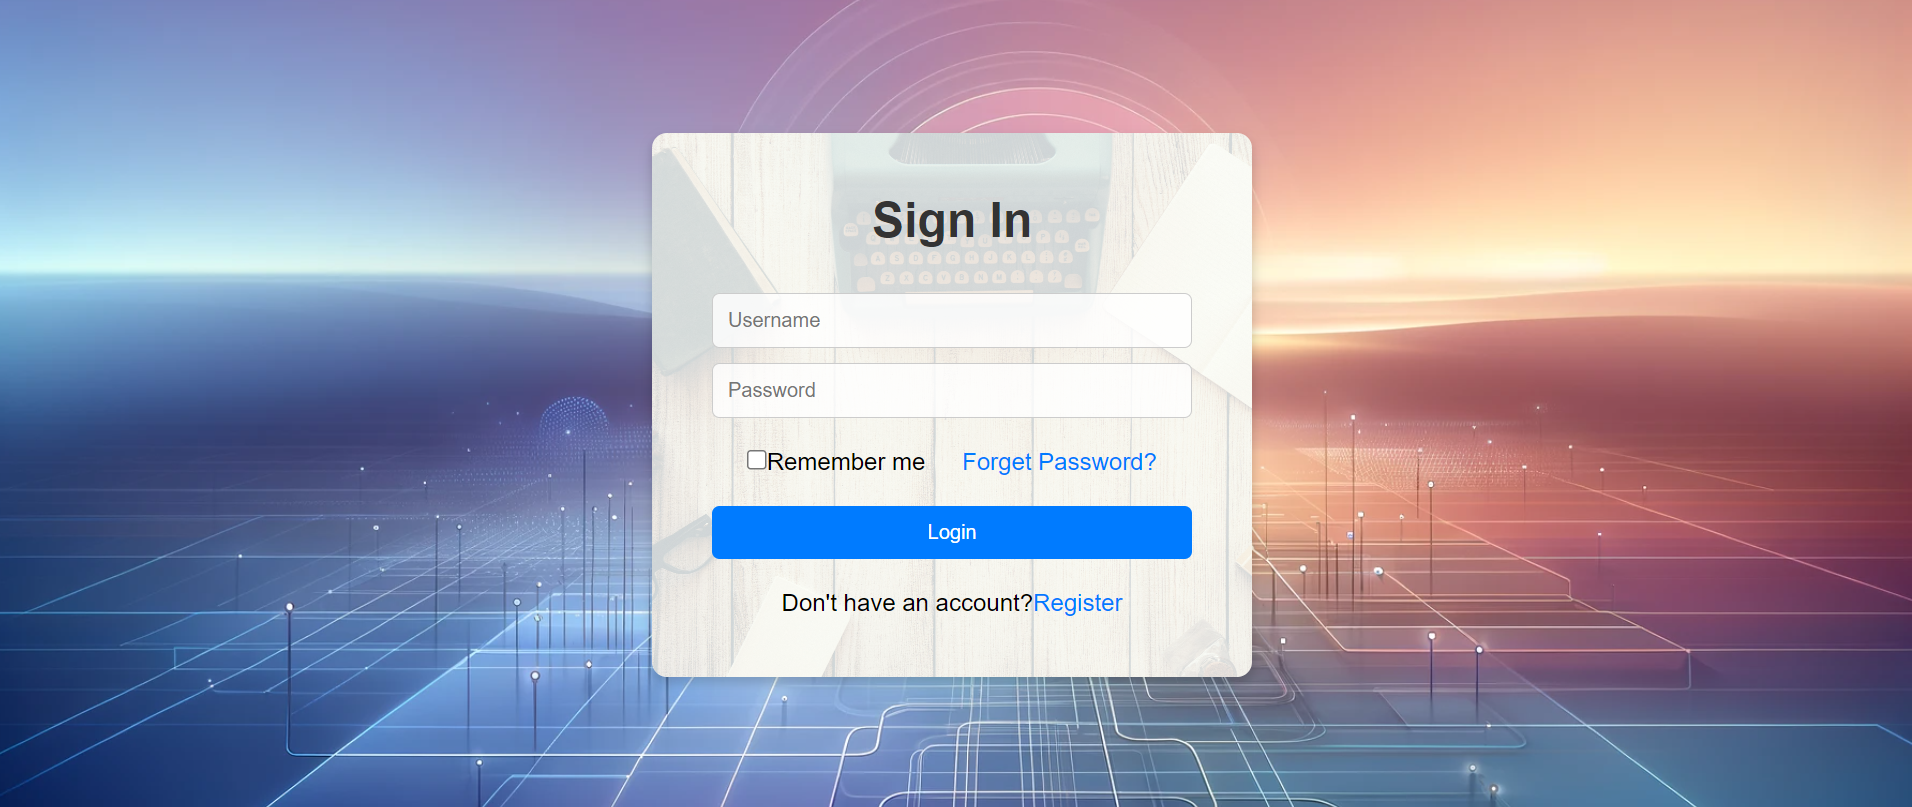
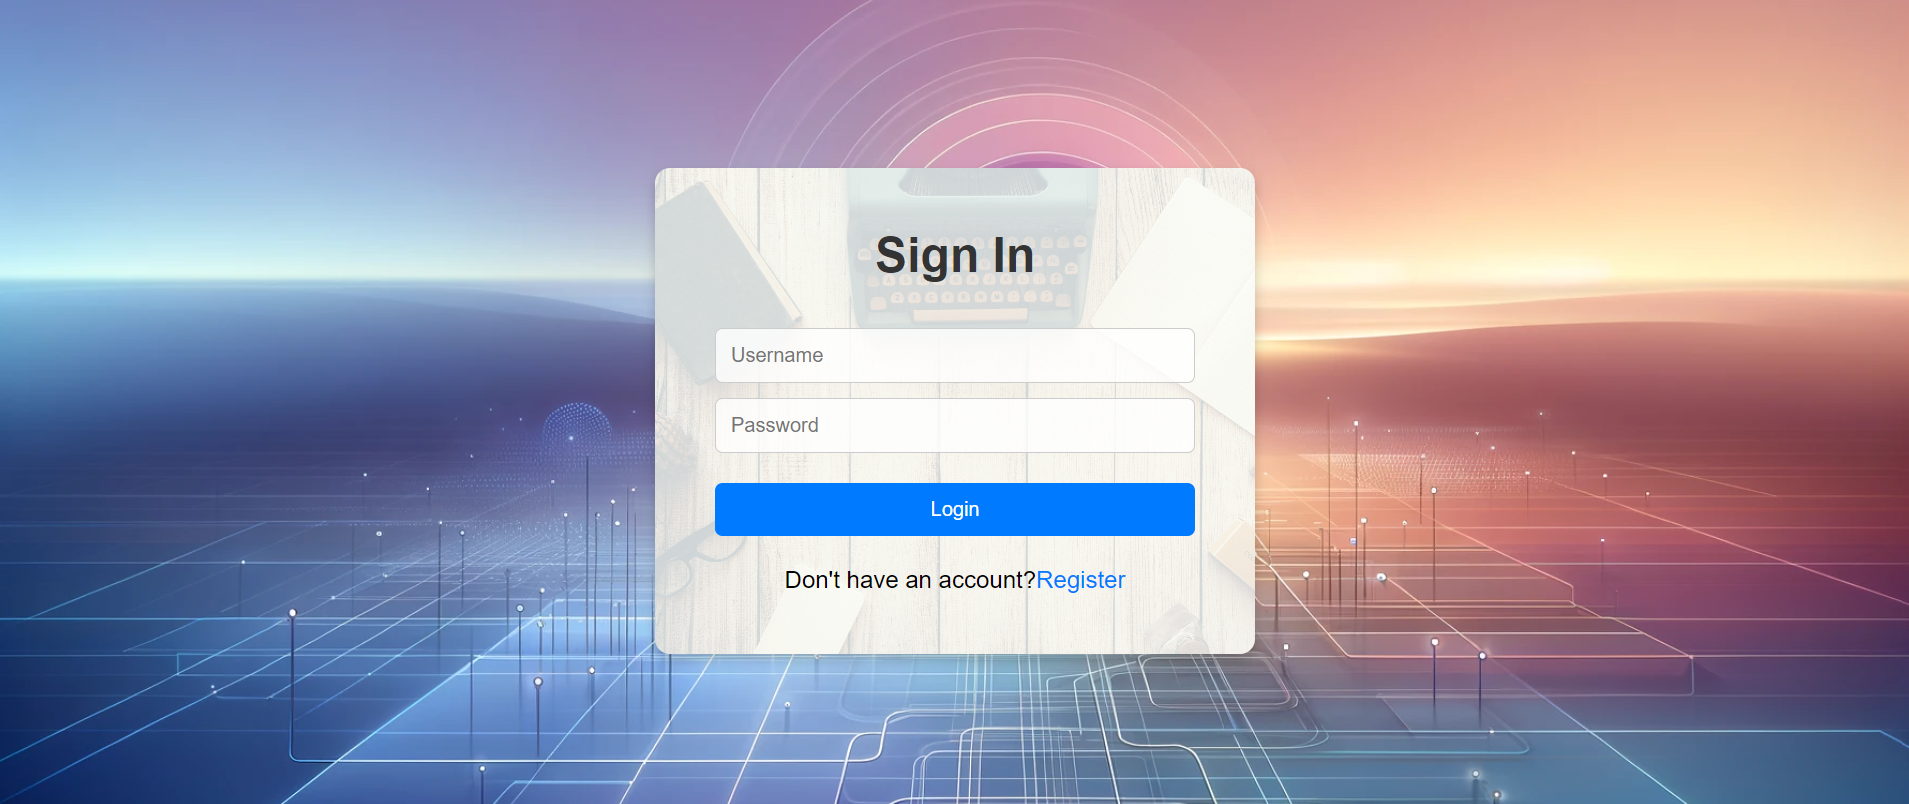
enter

diff --git a/TaskNo2/style.css b/TaskNo2/style.css
@@ -1,75 +1,76 @@
 * {
-  margin: 0;
-  padding: 0;
-  box-sizing: border-box;
-  font-family: "Poppins", sans-serif;
-}
-
-body, html {
-  height: 100%;
-  width: 100%;
-  display: flex;
-  justify-content: center;
-  align-items: center;
-  background-image: url('login.jpg'); 
-  background-size: cover;
-  background-position: center;
-}
-
-.form-container {
-  background-color: rgba(255, 255, 255, 0.8);
-  background-image: url('form.jpg'); 
-  background-size: cover; 
-  background-position: center;
-  background-blend-mode: overlay; 
-  padding: 40px;
-  border-radius: 10px;
-  box-shadow: 0 4px 8px rgba(0, 0, 0, 0.2);
-  width: 100%;
-  max-width: 400px;
-  position: relative; 
-  z-index: 2; 
-}
-.form-container h1 {
-  text-align: center;
-  margin-bottom: 20px; 
-  color: #333; 
-}
-
-.input-box input {
-  width: 100%;
-  padding: 10px;
-  margin-top: 10px;
-  border: 1px solid #ccc;
-  border-radius: 5px;
-  background-color: rgba(255, 255, 255, 0.8); 
-}
-
-.btn {
-  width: 100%;
-  padding: 10px;
-  border: none;
-  background-color: #007bff;
-  color: white;
-  margin-top: 20px;
-  border-radius: 5px;
-  cursor: pointer;
-}
-
-.btn:hover {
-  background-color: #0056b3;
-}
-
-.register-link p, .remember-forget {
-  text-align: center;
-  margin-top: 20px;
-}
-
-a {
-  text-decoration: none;
-  color: #007bff;
-}
-
-a:hover {
-  text-decoration: underline;
-}
+    margin: 0;
+    padding: 0;
+    box-sizing: border-box;
+    font-family: "Poppins", sans-serif;
+  }
+  
+  body, html {
+    height: 100%;
+    width: 100%;
+    display: flex;
+    justify-content: center;
+    align-items: center;
+    background-image: url('login.jpg'); 
+    background-size: cover;
+    background-position: center;
+  }
+  
+  .form-container {
+    background-color: rgba(255, 255, 255, 0.8);
+    background-image: url('form.jpg'); 
+    background-size: cover; 
+    background-position: center;
+    background-blend-mode: overlay; 
+    padding: 40px;
+    border-radius: 10px;
+    box-shadow: 0 4px 8px rgba(0, 0, 0, 0.2);
+    width: 100%;
+    max-width: 400px;
+    position: relative; 
+    z-index: 2; 
+  }
+  .form-container h1 {
+    text-align: center;
+    margin-bottom: 20px; 
+    color: #333; 
+  }
+  
+  .input-box input {
+    width: 100%;
+    padding: 10px;
+    margin-top: 10px;
+    border: 1px solid #ccc;
+    border-radius: 5px;
+    background-color: rgba(255, 255, 255, 0.8); 
+  }
+  
+  .btn {
+    width: 100%;
+    padding: 10px;
+    border: none;
+    background-color: #007bff;
+    color: white;
+    margin-top: 20px;
+    border-radius: 5px;
+    cursor: pointer;
+  }
+  
+  .btn:hover {
+    background-color: #0056b3;
+  }
+  
+  .register-link p, .remember-forget {
+    text-align: center;
+    margin-top: 20px;
+  }
+  
+  a {
+    text-decoration: none;
+    color: #007bff;
+  }
+  
+  a:hover {
+    text-decoration: underline;
+  }
+  

diff --git a/TaskNo2/script.js b/TaskNo2/script.js
@@ -1,0 +1,99 @@
+
+function validateSignInForm() {
+    var username = document.getElementById('username').value.trim();
+    var password = document.getElementById('password').value.trim();
+
+    if (username === '') {
+        alert('Please enter a username');
+        return false;
+    }
+
+    if (password === '') {
+        alert('Please enter a password');
+        return false;
+    }
+
+    return true;
+}
+
+function validateSignUpForm() {
+    var username = document.getElementById('signupUsername').value.trim();
+    var email = document.getElementById('email').value.trim();
+    var password = document.getElementById('signupPassword').value.trim();
+    var confirmPassword = document.getElementById('confirmPassword').value.trim();
+    var phoneNumber = document.getElementById('phoneNumber').value.trim();
+    var zipCode = document.getElementById('zipCode').value.trim();
+    var country = document.getElementById('country').value.trim(); // New field
+
+    if (username === '') {
+        alert('Please enter a username');
+        return false;
+    }
+
+    if (email === '') {
+        alert('Please enter an email');
+        return false;
+    } else if (!isValidEmail(email)) {
+        alert('Please enter a valid email');
+        return false;
+    }
+
+    if (password === '') {
+        alert('Please enter a password');
+        return false;
+    }
+
+    if (confirmPassword === '') {
+        alert('Please confirm your password');
+        return false;
+    }
+
+    if (password !== confirmPassword) {
+        alert('Passwords do not match');
+        return false;
+    }
+
+    if (phoneNumber !== '' && !isValidPhoneNumber(phoneNumber)) {
+        alert('Please enter a valid phone number');
+        return false;
+    }
+
+    if (zipCode !== '' && !isValidZipCode(zipCode)) {
+        alert('Please enter a valid zip code');
+        return false;
+    }
+
+    if (country === '') { 
+        alert('Please enter your country');
+        return false;
+    }
+
+    return true;
+}
+
+function isValidEmail(email) {
+    var emailRegex = /^[^\s@]+@[^\s@]+\.[^\s@]+$/;
+    return emailRegex.test(email);
+}
+
+function isValidPhoneNumber(phoneNumber) {
+    var phoneRegex = /^\d{10}$/;
+    return phoneRegex.test(phoneNumber);
+}
+
+function isValidZipCode(zipCode) {
+    var zipRegex = /^\d{5}$/;
+    return zipRegex.test(zipCode);
+}
+
+document.getElementById('loginForm').addEventListener('submit', function(event) {
+    if (!validateSignInForm()) {
+        event.preventDefault();
+    }
+});
+
+document.getElementById('signupForm').addEventListener('submit', function(event) {
+    if (!validateSignUpForm()) {
+        event.preventDefault();
+    }
+});

diff --git a/TaskNo2/signup.html b/TaskNo2/signup.html
@@ -8,19 +8,39 @@
 </head>
 <body>
     <div class="form-container">
-        <form class="signup-form">
+        <form class="signup-form" id="signupForm">
             <h1>Sign Up</h1>
             <div class="input-box">
-                <input type="text" placeholder="Username" required>
+                <input type="text" placeholder="Username" id="signupUsername" required>
             </div>
             <div class="input-box">
-                <input type="email" placeholder="Email" required>
+                <input type="email" placeholder="Email" id="email" required>
             </div>
             <div class="input-box">
-                <input type="password" placeholder="Password" required>
+                <input type="password" placeholder="Password" id="signupPassword" required>
             </div>
             <div class="input-box">
-                <input type="password" placeholder="Confirm Password" required>
+                <input type="password" placeholder="Confirm Password" id="confirmPassword" required>
+            </div>
+            <div class="input-box">
+                <input type="date" placeholder="Birthdate" id="birthdate" required>
+            </div>
+            <div class="input-box">
+                <select id="gender" required>
+                    <option value="">Select Gender</option>
+                    <option value="male">Male</option>
+                    <option value="female">Female</option>
+                    <option value="other">Other</option>
+                </select>
+            </div>
+            <div class="input-box">
+                <input type="tel" placeholder="Phone Number" id="phoneNumber">
+            </div>
+            <div class="input-box">
+                <input type="text" placeholder="Zip Code" id="zipCode">
+            </div>
+            <div class="input-box">
+                <input type="text" placeholder="Country" id="country">
             </div>
             <button type="submit" class="btn">Register</button>
             <div class="register-link">
@@ -28,5 +48,7 @@
             </div>
         </form>
     </div>
+
+    <script src="script.js"></script>
 </body>
 </html>

diff --git a/TaskNo2/signin.html b/TaskNo2/signin.html
@@ -8,17 +8,13 @@
 </head>
 <body>
     <div class="form-container">
-        <form class="login-form">
+        <form class="login-form" id="loginForm">
             <h1>Sign In</h1>
             <div class="input-box">
-                <input type="text" placeholder="Username" required>
+                <input type="text" placeholder="Username" id="username" required>
             </div>
             <div class="input-box">
-                <input type="password" placeholder="Password" required>
-            </div>
-            <div class="remember-forget">
-                <label><input type="checkbox">Remember me</label>
-                <a href="#" style="margin-left: 20px;">Forget Password?</a>
+                <input type="password" placeholder="Password" id="password" required>
             </div>
             <button type="submit" class="btn">Login</button>
             <div class="register-link">
@@ -26,5 +22,7 @@
             </div>
         </form>
     </div>
+
+    <script src="script.js"></script>
 </body>
 </html>
